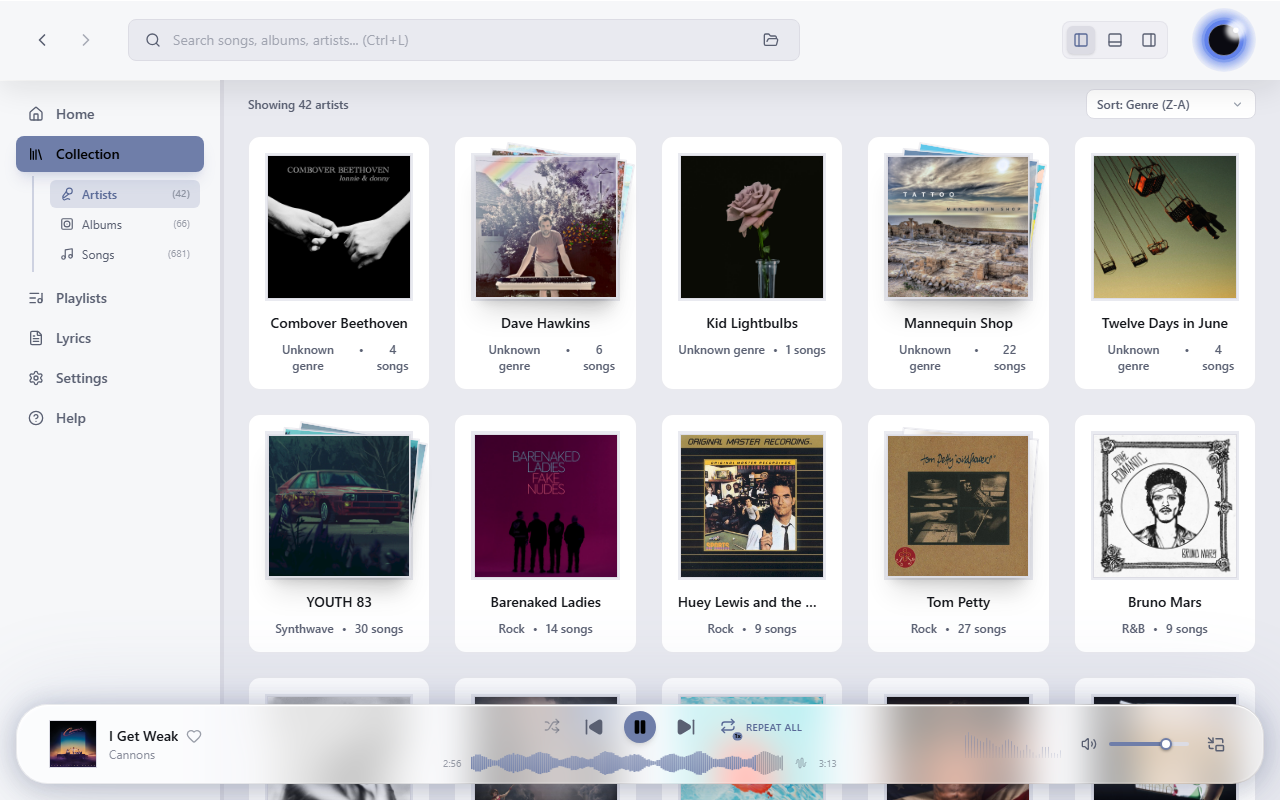
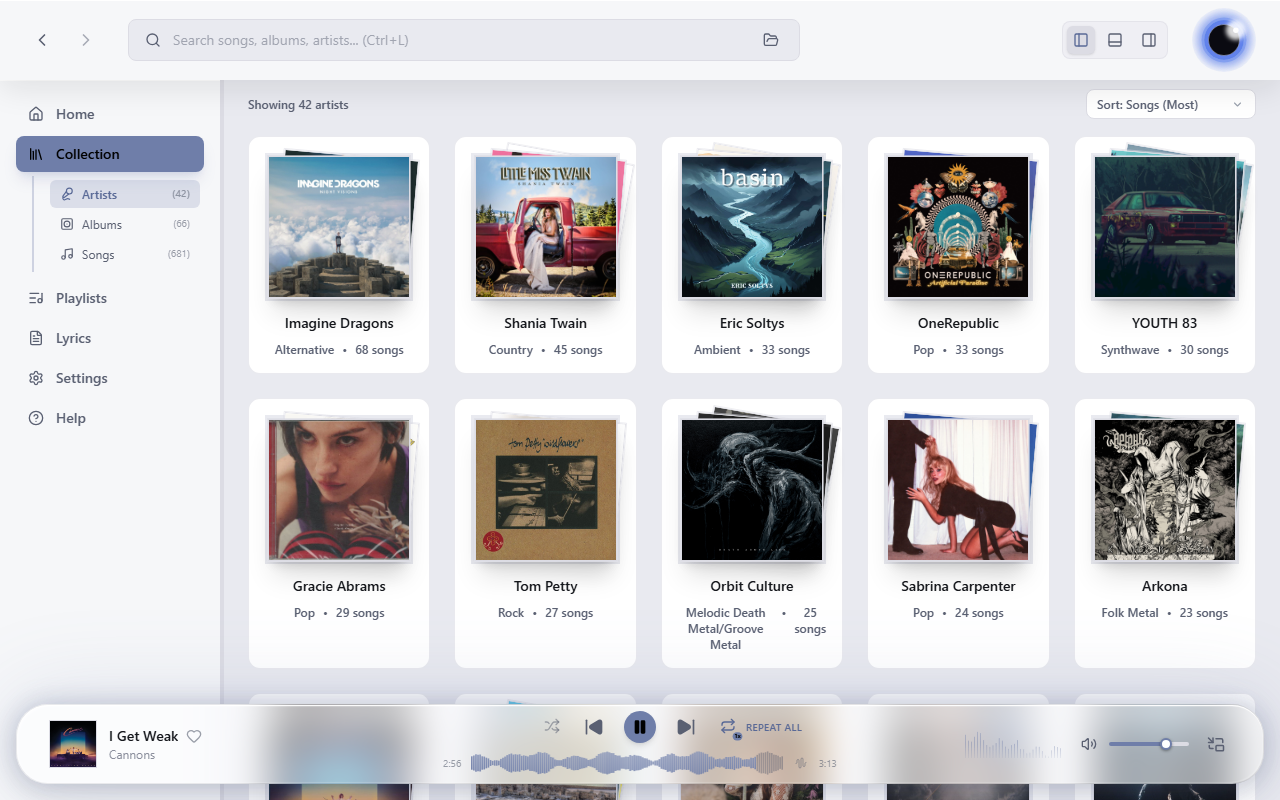
docs: regenerate artists/home-welcome screenshots, sort mock-config example (#162)
Switch the artists screenshot mock to sort by Songs (Most) instead of
the stale album_count field, and sort mock-config.example.json entries
by filename for easier scanning.

diff --git a/scripts/take-screenshots.ts b/scripts/take-screenshots.ts
@@ -215,7 +215,7 @@ async function main() {
       window.localStorage.setItem("layout_rightPanelOpen", "${rightPanelOpen ? 'true' : 'false'}");
       window.localStorage.setItem("layout_sidebarWidth", "${sidebarWidth}");
       if ("${subTab}" === "artists") {
-        window.localStorage.setItem("sort_artist_field", "album_count");
+        window.localStorage.setItem("sort_artist_field", "song_count");
         window.localStorage.setItem("sort_artist_asc", "false");
       } else if ("${subTab}" === "albums") {
         window.localStorage.setItem("sort_album_field", "year");
